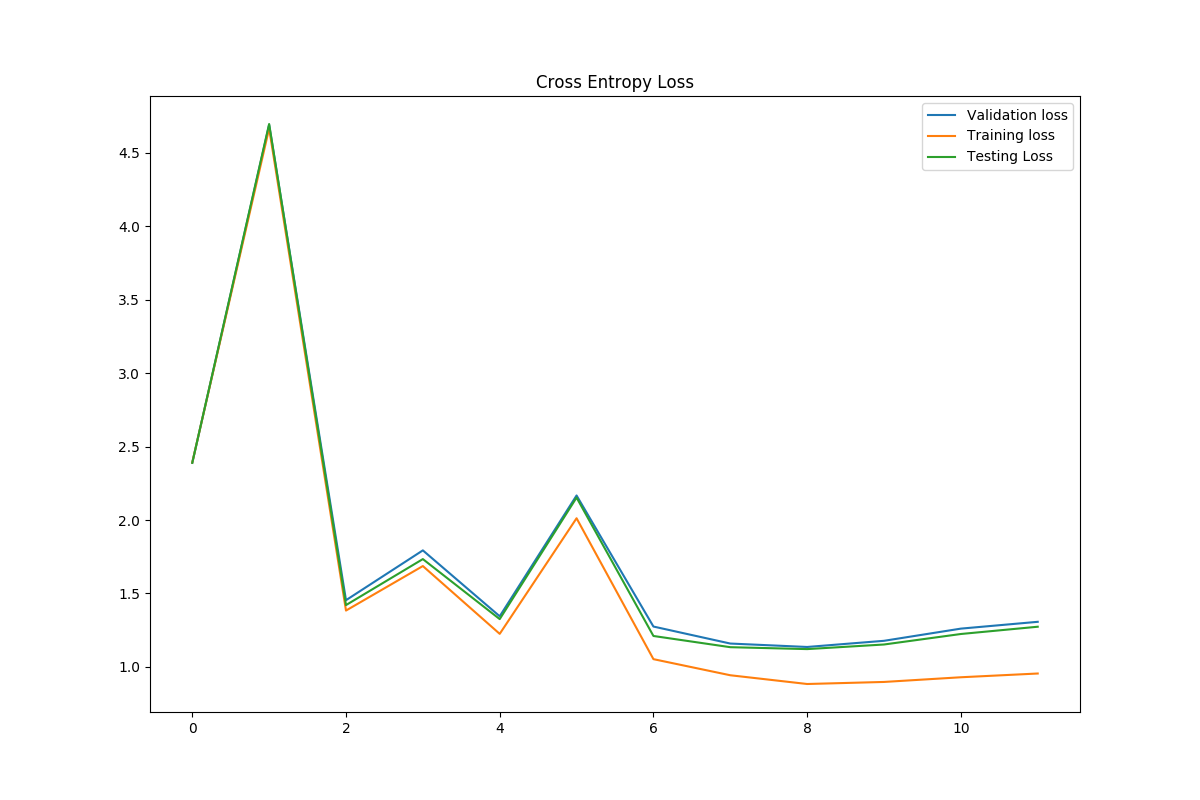
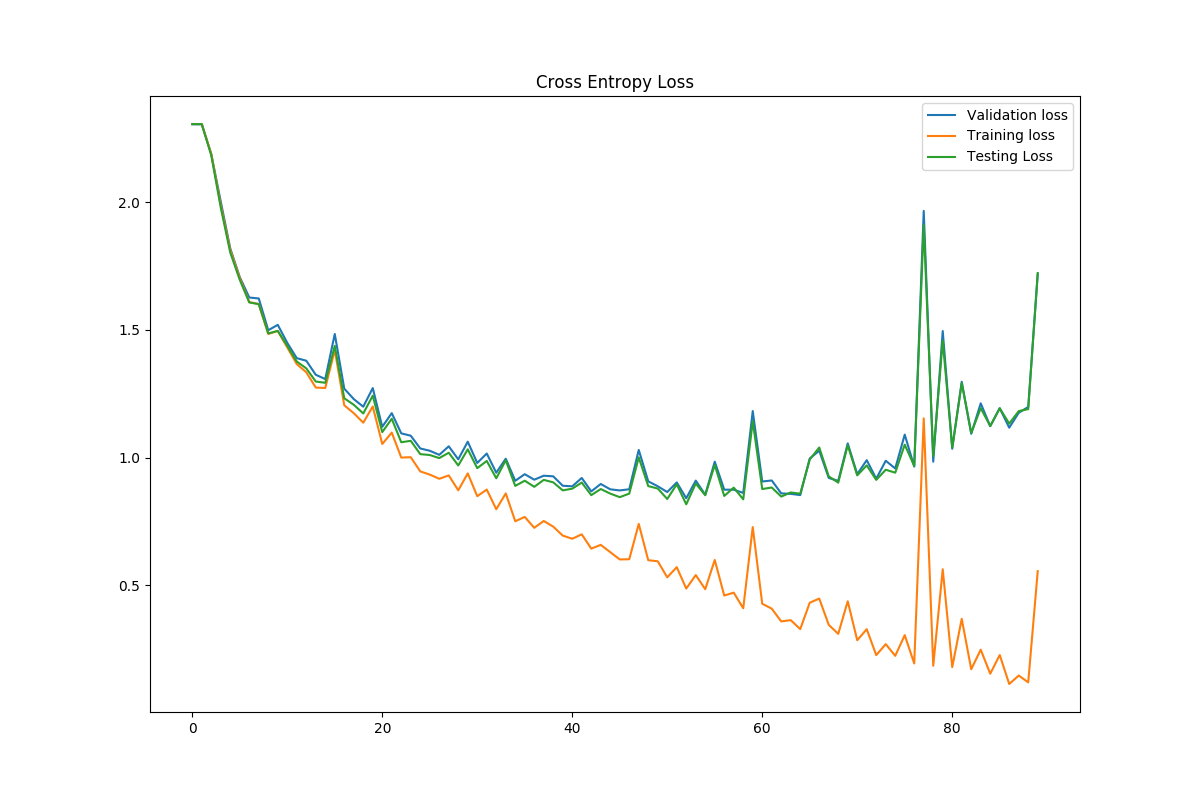
task 1 LeNet

diff --git a/assignment3/LeNet.py b/assignment3/LeNet.py
@@ -1,0 +1,236 @@
+import os
+import matplotlib.pyplot as plt
+import torch
+from torch import nn
+from dataloaders import load_cifar10
+from utils import to_cuda, compute_loss_and_accuracy
+
+
+class ExampleModel(nn.Module):
+
+    def __init__(self,
+                 image_channels,
+                 num_classes):
+        """
+            Is called when model is initialized.
+            Args:
+                image_channels. Number of color channels in image (3)
+                num_classes: Number of classes we want to predict (10)
+        """
+        super().__init__()
+
+        # Define the convolutional layers
+        self.feature_extractor = nn.Sequential(
+            nn.Conv2d(
+                in_channels=image_channels,
+                out_channels=32,
+                kernel_size=5,
+                stride=1,
+                padding=2
+            ),
+            nn.MaxPool2d(kernel_size=2, stride=2),
+            nn.ReLU(),
+            nn.Conv2d(
+                in_channels=32,
+                out_channels=64,
+                kernel_size=5,
+                stride=1,
+                padding=2
+            ),
+            nn.MaxPool2d(kernel_size=2, stride=2),
+            nn.ReLU(),
+            nn.Conv2d(
+                in_channels=64,
+                out_channels=128,
+                kernel_size=5,
+                stride=1,
+                padding=2
+            ),
+            nn.MaxPool2d(kernel_size=2, stride=2),
+            nn.ReLU()
+        )
+        # The output of feature_extractor will be [batch_size, num_filters, 16, 16]
+        self.num_output_features = 128*4*4
+        # Initialize our last fully connected layer
+        # Inputs all extracted features from the convolutional layers
+        # Outputs num_classes predictions, 1 for each class.
+        # There is no need for softmax activation function, as this is
+        # included with nn.CrossEntropyLoss
+        self.classifier = nn.Sequential(
+            nn.Linear(self.num_output_features, 64),
+            nn.ReLU(),
+            nn.Linear(64, num_classes)
+        )
+
+    def forward(self, x):
+        """
+        Performs a forward pass through the model
+        Args:
+            x: Input image, shape: [batch_size, 3, 32, 32]
+        """
+
+        # Run image through convolutional layers
+        x = self.feature_extractor(x)
+        # Reshape our input to (batch_size, num_output_features)
+        x = x.view(-1, self.num_output_features)
+        # Forward pass through the fully-connected layers.
+        x = self.classifier(x)
+        return x
+
+
+class Trainer:
+
+    def __init__(self):
+        """
+        Initialize our trainer class.
+        Set hyperparameters, architecture, tracking variables etc.
+        """
+        # Define hyperparameters
+        self.epochs = 100
+        self.batch_size = 64
+        self.learning_rate = 5e-2
+        self.early_stop_count = 4
+
+        # Architecture
+
+        # Since we are doing multi-class classification, we use the CrossEntropyLoss
+        self.loss_criterion = nn.CrossEntropyLoss()
+        # Initialize the mode
+        self.model = ExampleModel(image_channels=3, num_classes=10)
+        # Transfer model to GPU VRAM, if possible.
+        self.model = to_cuda(self.model)
+
+        # Define our optimizer. SGD = Stochastich Gradient Descent
+        self.optimizer = torch.optim.SGD(self.model.parameters(),
+                                         self.learning_rate)
+
+        # Load our dataset
+        self.dataloader_train, self.dataloader_val, self.dataloader_test = load_cifar10(self.batch_size)
+
+        self.validation_check = len(self.dataloader_train) // 2
+
+        # Tracking variables
+        self.VALIDATION_LOSS = []
+        self.TEST_LOSS = []
+        self.TRAIN_LOSS = []
+        self.TRAIN_ACC = []
+        self.VALIDATION_ACC = []
+        self.TEST_ACC = []
+
+    def validation_epoch(self):
+        """
+            Computes the loss/accuracy for all three datasets.
+            Train, validation and test.
+        """
+        self.model.eval()
+
+        # Compute for training set
+        train_loss, train_acc = compute_loss_and_accuracy(
+            self.dataloader_train, self.model, self.loss_criterion
+        )
+        self.TRAIN_ACC.append(train_acc)
+        self.TRAIN_LOSS.append(train_loss)
+
+        # Compute for validation set
+        validation_loss, validation_acc = compute_loss_and_accuracy(
+            self.dataloader_val, self.model, self.loss_criterion
+        )
+        self.VALIDATION_ACC.append(validation_acc)
+        self.VALIDATION_LOSS.append(validation_loss)
+        print("Current validation loss:", validation_loss, " Accuracy:", validation_acc)
+        # Compute for testing set
+        test_loss, test_acc = compute_loss_and_accuracy(
+            self.dataloader_test, self.model, self.loss_criterion
+        )
+        self.TEST_ACC.append(test_acc)
+        self.TEST_LOSS.append(test_loss)
+
+        self.model.train()
+
+    def should_early_stop(self):
+        """
+        Checks if validation loss doesn't improve over early_stop_count epochs.
+        """
+        # Check if we have more than early_stop_count elements in our validation_loss list.
+        if len(self.VALIDATION_LOSS) < self.early_stop_count:
+            return False
+        # We only care about the last [early_stop_count] losses.
+        relevant_loss = self.VALIDATION_LOSS[-self.early_stop_count:]
+        previous_loss = relevant_loss[0]
+        for current_loss in relevant_loss[1:]:
+            # If the next loss decrease, early stopping criteria is not met.
+            if current_loss < previous_loss:
+                return False
+            previous_loss = current_loss
+        return True
+
+    def train(self):
+        """
+        Trains the model for [self.epochs] epochs.
+        """
+        # Track initial loss/accuracy
+        self.validation_epoch()
+        for epoch in range(self.epochs):
+            # Perform a full pass through all the training samples
+            for batch_it, (X_batch, Y_batch) in enumerate(self.dataloader_train):
+                # X_batch is the CIFAR10 images. Shape: [batch_size, 3, 32, 32]
+                # Y_batch is the CIFAR10 image label. Shape: [batch_size]
+                # Transfer images / labels to GPU VRAM, if possible
+                X_batch = to_cuda(X_batch)
+                Y_batch = to_cuda(Y_batch)
+
+                # Perform the forward pass
+                predictions = self.model(X_batch)
+                # Compute the cross entropy loss for the batch
+                loss = self.loss_criterion(predictions, Y_batch)
+
+                # Backpropagation
+                loss.backward()
+
+                # Gradient descent step
+                self.optimizer.step()
+                
+                # Reset all computed gradients to 0
+                self.optimizer.zero_grad()
+                 # Compute loss/accuracy for all three datasets.
+                if batch_it % self.validation_check == 0:
+                    self.validation_epoch()
+                    # Check early stopping criteria.
+                    if self.should_early_stop():
+                        print("Early stopping.")
+                        return
+
+
+if __name__ == "__main__":
+    trainer = Trainer()
+    trainer.train()
+
+    os.makedirs("plots", exist_ok=True)
+    # Save plots and show them
+    plt.figure(figsize=(12, 8))
+    plt.title("Cross Entropy Loss")
+    plt.plot(trainer.VALIDATION_LOSS, label="Validation loss")
+    plt.plot(trainer.TRAIN_LOSS, label="Training loss")
+    plt.plot(trainer.TEST_LOSS, label="Testing Loss")
+    plt.legend()
+    plt.savefig(os.path.join("plots", "final_loss.png"))
+    plt.show()
+
+    plt.figure(figsize=(12, 8))
+    plt.title("Accuracy")
+    plt.plot(trainer.VALIDATION_ACC, label="Validation Accuracy")
+    plt.plot(trainer.TRAIN_ACC, label="Training Accuracy")
+    plt.plot(trainer.TEST_ACC, label="Testing Accuracy")
+    plt.legend()
+    plt.savefig(os.path.join("plots", "final_accuracy.png"))
+    plt.show()
+
+    print("Final test accuracy:", trainer.TEST_ACC[-trainer.early_stop_count])
+    print("Final validation accuracy:", trainer.VALIDATION_ACC[-trainer.early_stop_count])
+    print("Final training accuracy:", trainer.TRAIN_ACC[-trainer.early_stop_count])
+
+    print("Final test loss:", trainer.TEST_LOSS[-trainer.early_stop_count])
+    print("Final validation loss:", trainer.VALIDATION_LOSS[-trainer.early_stop_count])
+    print("Final training loss:", trainer.TRAIN_LOSS[-trainer.early_stop_count])
+
+
